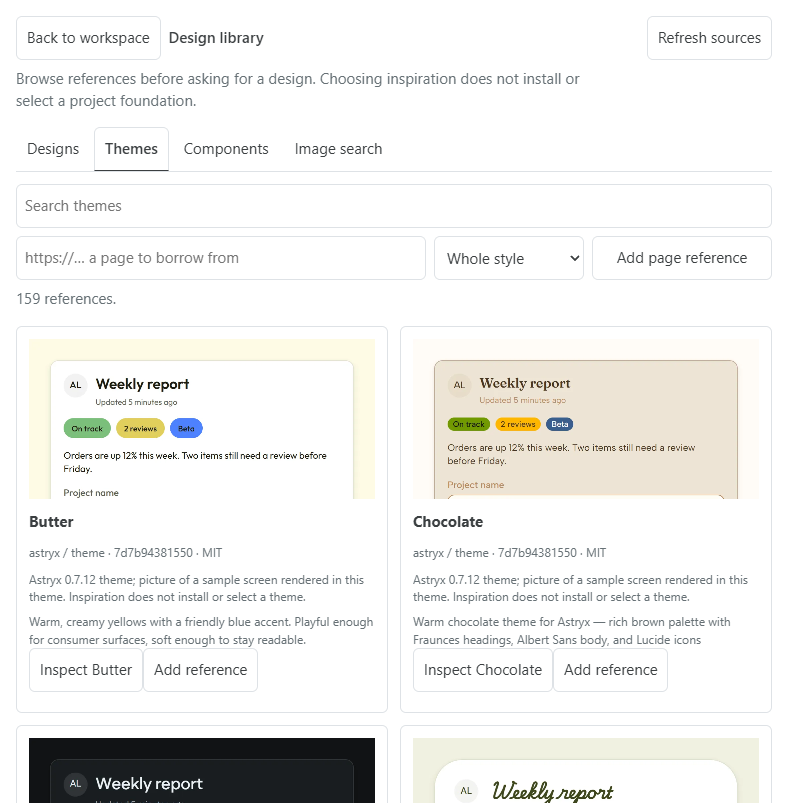
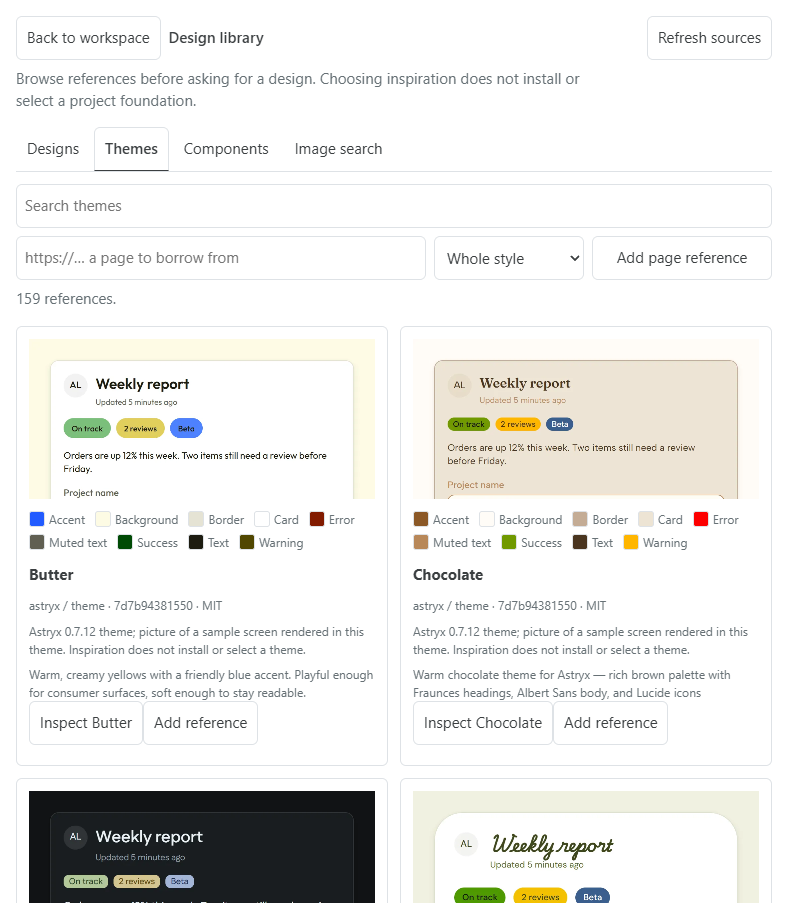
Design library: per-tab search, kept image results, theme swatches, per-session tab

diff --git a/hub/web/design-library.ts b/hub/web/design-library.ts
@@ -15,8 +15,10 @@ export function createDesignLibrary(root: HTMLElement, { get, post, back: leave,
  type Tab = typeof kinds[number][0];
  const tabOf = (item: CatalogEntry): Tab => item.kind === "theme" ? "themes" : item.kind === "component" ? "components" : item.source === "web" ? "image" : "designs";
  let tab: Tab = "designs";
+ // Each tab keeps its own search text: a Google query must not filter Themes down to nothing.
+ const queries: Partial<Record<Tab, string>> = {};
  tabs.setAttribute("role", "tablist"); tabs.setAttribute("aria-label", "Reference type"); tabs.className = "library-tabs"; list.id = "library-results";
- const tabButtons = kinds.map(([value, label]) => { const button = make("button", label); button.type = "button"; button.setAttribute("role", "tab"); button.dataset.tab = value; button.setAttribute("aria-controls", list.id); button.addEventListener("click", () => { tab = value; filter(); }); return button; });
+ const tabButtons = kinds.map(([value, label]) => { const button = make("button", label); button.type = "button"; button.setAttribute("role", "tab"); button.dataset.tab = value; button.setAttribute("aria-controls", list.id); button.addEventListener("click", () => { queries[tab] = search.value; tab = value; search.value = queries[tab] ?? ""; filter(); }); return button; });
  tabs.addEventListener("keydown", event => {
   const step = { ArrowRight: 1, ArrowLeft: -1 }[event.key]; if (!step) return;
   const next = tabButtons[(kinds.findIndex(([value]) => value === tab) + step + kinds.length) % kinds.length]; event.preventDefault(); next.click(); next.focus();
@@ -32,7 +34,7 @@ export function createDesignLibrary(root: HTMLElement, { get, post, back: leave,
  async function webSearch() {
   const query = search.value.trim(); if (tab !== "image" || !query || searching) return;
   searching = searchButton.disabled = true; status.textContent = "Searching Google Images in your browser… approve google.com when asked.";
-  try { found = { query, ...await post("designsearch", { query }) }; draw(); status.textContent = `${found!.results.length} results for "${query}".`; }
+  try { found = { query, ...await post("designsearch", { query }) }; draw(); remember(); status.textContent = `${found!.results.length} results for "${query}".` + (found!.results.length && !found!.results.some(item => item.thumb) ? " No thumbnails came back: reload the Pi browser fetch extension in your browser (extensions page, Reload); thumbnails need version 1.8." : ""); }
   catch (error) { status.textContent = "Image search failed: " + error.message; }
   finally { searching = searchButton.disabled = false; }
  }
@@ -93,14 +95,17 @@ export function createDesignLibrary(root: HTMLElement, { get, post, back: leave,
  const key = "design-library:" + location.pathname;
  try {
   const saved = JSON.parse(sessionStorage.getItem(key) ?? "null");
-  if (typeof saved?.query === "string") search.value = saved.query.slice(0, 200);
   if (kinds.some(([value]) => value === saved?.tab)) tab = saved.tab;
+  for (const [value] of kinds) if (typeof saved?.queries?.[value] === "string") queries[value] = saved.queries[value].slice(0, 200);
+  search.value = queries[tab] ?? "";
+  const results = JSON.parse(sessionStorage.getItem(key + ":found") ?? "null");
+  if (typeof results?.set === "string" && typeof results.query === "string" && Array.isArray(results.results)) found = results;
   if (typeof saved?.selected === "string") selected = saved.selected;
   if (typeof saved?.previewKey === "string" && /^[a-f0-9]{32}$/.test(saved.previewKey)) abandoned = saved.previewKey;
   if (["", "390", "768", "1280"].includes(saved?.viewport)) viewport = saved.viewport;
   if (Number.isFinite(saved?.scroll) && saved.scroll >= 0) gridScroll = saved.scroll;
  } catch { /* private mode: browsing still works without persistence */ }
- const remember = () => { try { sessionStorage.setItem(key, JSON.stringify({ query: search.value, tab, selected, scroll: gridScroll, viewport, previewKey: viewed })); } catch { /* private mode */ } };
+ const remember = () => { try { queries[tab] = search.value; sessionStorage.setItem(key, JSON.stringify({ queries, tab, selected, scroll: gridScroll, viewport, previewKey: viewed })); if (found) sessionStorage.setItem(key + ":found", JSON.stringify(found)); } catch { /* private mode or full: results stay in memory */ } };
  const release = (id: string) => { void post("unview", { key: id }).catch(() => {}); };
  if (abandoned) release(abandoned);
  const cancelSample = () => { inspection++; if (viewed) { release(viewed); viewed = undefined; } };
@@ -263,6 +268,7 @@ export function createDesignLibrary(root: HTMLElement, { get, post, back: leave,
    addButton.addEventListener("click", pick); open.addEventListener("click", event => { if (event.ctrlKey || event.metaKey) pick(); else inspect(item); });
    gestures(row, () => { if (!addButton.disabled) pick(); });
    if (item.preview === "image" && item.imageRevision) { const thumb = image(item, true); if (item.kind === "component") thumb.classList.add("library-thumb-whole"); row.append(thumb); }
+   if (item.colors) { const swatches = make("ul"); swatches.className = "library-swatches"; swatches.setAttribute("aria-label", item.name + " colors"); for (const [name, hex] of Object.entries(item.colors)) { const swatch = make("li", name); swatch.style.setProperty("--swatch", hex); swatch.title = `${name} ${hex}`; swatches.append(swatch); } row.append(swatches); }
    else if (item.preview === "sample" && (item.availability === "cached" || item.source === "od")) row.append(cardPreview(item));
    if (item.status) row.append(make("p", item.status));
    row.append(title, details, provenance);

diff --git a/extensions/design-catalog.ts b/extensions/design-catalog.ts
@@ -12,7 +12,7 @@ export type CatalogEntry = {
 	id: string; source: "od" | "astryx" | "draft" | "export" | "web"; kind: "system" | "theme" | "component" | "design" | "screenshot";
 	name: string; revision: string; preview: "sample" | "image" | "none"; availability: "cached" | "not-cached" | "unavailable";
 	license: string; provenance: string; category?: string; description?: string; url?: string; imageRevision?: string;
-	folder?: string; page?: string; handle?: string; designRevision?: string; status?: string;
+	folder?: string; page?: string; handle?: string; designRevision?: string; status?: string; colors?: Record<string, string>;
 };
 export function designImage(id: string | null, revision: string | null, cwd?: string, owner?: string) {
 	if (id?.startsWith("found:")) return cwd && owner && revision === id.slice(6) ? foundImage(cwd, owner, revision) : undefined;
@@ -26,7 +26,7 @@ try { astryx = JSON.parse(fs.readFileSync(new URL("./astryx-runtime/catalog.json
 catch (cause) { throw new Error("The bundled design catalog is unreadable; reinstall ce-workflow.", { cause }); }
 if (astryx.lockDigest !== astryxRuntime.lockDigest || astryx.version !== astryxRuntime.versions["@astryxdesign/core"]) throw new Error("Design catalog does not match the reviewed Astryx pin.");
 // Component and theme pictures from scripts/astryx-component-shots.mjs; a stale set (older pin) is shown as no picture.
-let shots: { lockDigest: string; images: Record<string, string>; themes: Record<string, string> };
+let shots: { lockDigest: string; images: Record<string, string>; themes: Record<string, string>; colors?: Record<string, Record<string, string>> };
 try { shots = JSON.parse(fs.readFileSync(new URL("./astryx-runtime/previews/components/components.json", import.meta.url), "utf8")); }
 catch { shots = { lockDigest: "", images: {}, themes: {} }; }
 if (shots.lockDigest !== astryx.lockDigest || !shots.themes) shots = { lockDigest: "", images: {}, themes: {} };
@@ -160,7 +160,7 @@ export async function designCatalog(cwd: string, owner?: string) {
 		entries.push({
 			id: `astryx:theme:${theme.slug}`, source: "astryx", kind: "theme", name: theme.displayName, description: theme.description,
 			revision: astryx.lockDigest, preview: image ? "image" : "none", availability: image ? "cached" : "unavailable", license: "MIT",
-			imageRevision: image ? shots.lockDigest : undefined,
+			imageRevision: image ? shots.lockDigest : undefined, colors: shots.colors?.[theme.slug],
 			provenance: `Astryx ${astryx.version} theme; ${image ? "picture of a sample screen rendered in this theme" : "no picture"}. Inspiration does not install or select a theme.`,
 		});
 	}

diff --git a/hub/web/app.ts b/hub/web/app.ts
@@ -239,7 +239,8 @@ function setTab(name) {
  $("files").hidden = name !== "files"; $("library").hidden = name !== "library"; $("canvas").hidden = name === "files" || name === "library"; $("canvas").setAttribute("aria-labelledby", "tab-" + name);
  $("zoom-controls").hidden = $("edit-bar").hidden = name === "files" || name === "library";
  if (name === "files" || name === "library") setTool("select");
- remember("plan3-tab", name);
+ // Per session: the library opened in one session must not open in every other one; the global key only seeds new sessions.
+ remember("plan3-tab:" + location.pathname, name); if (name !== "library") remember("plan3-tab", name);
  if (name === "files") { filesView.shown(); return; }
  if (name === "library") { void libraryView.open(); return; }
  diagramTab = name; renderDiagram(true);
@@ -287,7 +288,7 @@ function setMobile(view, restoring = false) {
  workspace.dataset.mobile = view === "chat" ? "chat" : "panel";
  for (const name of mobileViews) { const tab = $("mobile-" + name); tab.setAttribute("aria-selected", String(name === view)); tab.tabIndex = name === view ? 0 : -1; }
  if (view !== "chat" && !(restoring && !phone.matches)) setTab(view); // on a desktop reload the remembered desktop tab wins
- remember("plan3-mobile", view);
+ remember("plan3-mobile:" + location.pathname, view); if (view !== "library") remember("plan3-mobile", view);
 }
 for (const name of mobileViews) {
  $("mobile-" + name).addEventListener("click", () => { setMobile(name); setDrawer(false); });
@@ -697,8 +698,8 @@ function openLibrary() {
  setLeft("full");
 }
 // /plan3 architecture links open on the Project tab.
-setTab(target === "product" ? "project" : remembered("plan3-tab", [...LEFT_TABS, "diagram"], "plan"));
-{ const view = remembered("plan3-mobile", [...mobileViews, "diagram"], "chat"); setMobile(view === "diagram" ? "plan" : view, true); }
+setTab(target === "product" ? "project" : remembered("plan3-tab:" + location.pathname, [...LEFT_TABS, "diagram"], remembered("plan3-tab", ["files", "project", "plan", "diagram"], "plan")));
+{ const view = remembered("plan3-mobile:" + location.pathname, [...mobileViews, "diagram"], remembered("plan3-mobile", ["chat", "files", "project", "plan", "diagram"], "chat")); setMobile(view === "diagram" ? "plan" : view, true); }
 if (new URLSearchParams(location.search).get("view") === "library") openLibrary();
 $("search").addEventListener("input", () => { const count = diagramView.search($("search").value); $("search-count").textContent = $("search").value.trim() ? String(count) : ""; });
 $("search").addEventListener("keydown", event => {

diff --git a/hub/web/styles.css b/hub/web/styles.css
@@ -93,6 +93,8 @@ h2 { font-size: 15px; font-weight: 600; }
 /* A component picture is the whole component: show all of it, never crop. */
 .library-thumb.library-thumb-whole { height: 220px; object-fit: contain; object-position: center; background: #fff; border-radius: 4px; }
 .library-docs table { width: 100%; border-collapse: collapse; font-size: 13px; }
+.library-swatches { display: flex; flex-wrap: wrap; gap: 6px 10px; list-style: none; margin: 0 0 12px; padding: 0; font-size: 12px; color: var(--muted); }
+.library-swatches li::before { content: ""; display: inline-block; width: 14px; height: 14px; margin-right: 4px; vertical-align: -3px; border-radius: 3px; border: 1px solid var(--line); background: var(--swatch); }
 .library-docs th, .library-docs td { text-align: left; vertical-align: top; padding: 6px 8px; border-bottom: 1px solid var(--line); overflow-wrap: anywhere; }
 .library-docs th, .library-docs code { white-space: nowrap; }
 .library-heading { display: flex; align-items: center; flex-wrap: wrap; gap: 8px; }

diff --git a/CHANGELOG.md b/CHANGELOG.md
@@ -13,7 +13,7 @@ What changed in ce-workflow and its hub (pi-control-hub), newest first. One vers
   ![The Components tab: a picture per component](docs/changelog/design-library-components.png)
   ![Inspecting Button: picture, usage and props](docs/changelog/design-library-component-inspect.png)
   ![Image search with a saved pick](docs/changelog/design-library-image-search.png)
-- Theme cards now show each Astryx theme on a real sample screen (heading, badges, input, switch, buttons) instead of the docs' mood photos, and Chocolate has a picture too. All seven theme packages are now part of the Astryx runtime, so its next use asks to download it again (about 29 MB).
+- Theme cards now show each Astryx theme on a real sample screen (heading, badges, input, switch, buttons) instead of the docs' mood photos, with its colors (background, card, text, accent, border, success, warning, error) as swatches below. Chocolate has a picture too. All seven theme packages are now part of the Astryx runtime, so its next use asks to download it again (about 29 MB).
   ![Themes tab: every theme on the same sample screen](docs/changelog/design-library-themes.png)
 - Ask the chat to find existing interfaces ("top POS screens") and the agent's picks from a Google image search show up as **Web results** cards in that conversation's Design library, with their source page and why each one fits. Add one as an `@ref`, or **Capture page** to screenshot its source site.
   ![A web result card in the Design library](docs/changelog/design-library-found.png)
@@ -22,6 +22,8 @@ What changed in ce-workflow and its hub (pi-control-hub), newest first. One vers
 - Files over hub links: attach `{type: "file", content: "@<absolute path>"}` to an intercom message to a `~hub` session. The file (any type, up to 5 MB per message, from your project or the temp folder) is saved in the other project's `.pi/inbox/` and the message names where. If it takes longer than intercom waits, the sender is told when it arrives.
 
 ### Fixed
+- Design library: each tab keeps its own search text, so a Google query typed in **Image search** no longer empties Themes, Components and Designs. Image search results stay when you switch tabs or reload the page. When results come back without thumbnails, the library says to reload the Pi browser fetch extension in your browser (thumbnails need extension 1.8).
+- Opening the Design library in one session no longer opens it in every other session: each session remembers its own tab.
 - Idle cold-cache compaction now waits until Pi's last idle cache warm expires, including slow final warms. The hub compacts before parking when only idle warms kept the cache fresh, but still respects a recent real request and long cache retention.
 
 ### Changed
